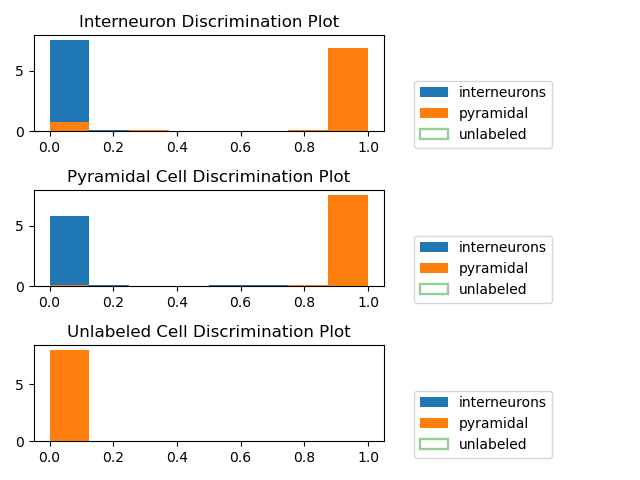
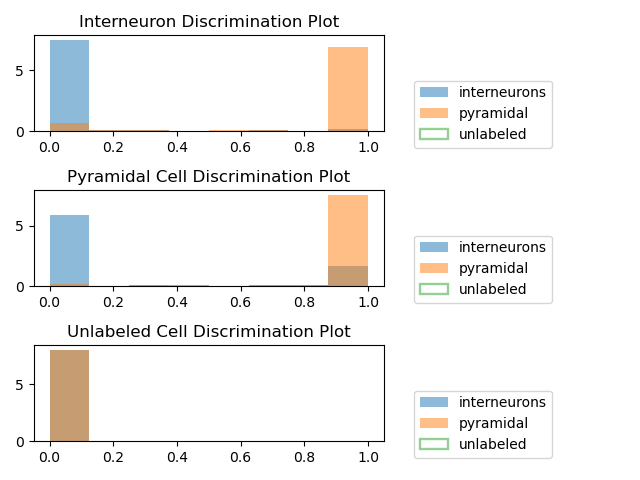
translucent figures?

diff --git a/cell.py b/cell.py
@@ -315,8 +315,8 @@ with torch.no_grad():
     unlabeled = class_0[c0_labeled2].detach().numpy().flatten()
 
 
-    ax2[0].hist(interneurons, bins=8, range=[0,1], label='interneurons', density=True)
-    ax2[0].hist(pyramidal, bins=8, range=[0,1], label='pyramidal', density=True)
+    ax2[0].hist(interneurons, bins=8, range=[0,1], label='interneurons', density=True, alpha=0.5)
+    ax2[0].hist(pyramidal, bins=8, range=[0,1], label='pyramidal', density=True, alpha=0.5)
     ax2[0].hist(unlabeled, bins=8, range=[0,1], label='unlabeled', linewidth=1.7, histtype=u'step', density=True, alpha=0.5)
     ax2[0].set_title('Interneuron Discrimination Plot')
     ax2[0].legend(bbox_to_anchor=(1.5,.6))
@@ -331,8 +331,8 @@ with torch.no_grad():
     unlabeled = class_1[c1_labeled2].detach().numpy().flatten()
 
 
-    ax2[1].hist(interneurons, bins=8, range=[0,1], label='interneurons', density=True)
-    ax2[1].hist(pyramidal, bins=8, range=[0,1], label='pyramidal', density=True)
+    ax2[1].hist(interneurons, bins=8, range=[0,1], label='interneurons', density=True, alpha=0.5)
+    ax2[1].hist(pyramidal, bins=8, range=[0,1], label='pyramidal', density=True, alpha=0.5)
     ax2[1].hist(unlabeled, bins=8, range=[0,1], label='unlabeled', linewidth=1.7, histtype=u'step', density=True, alpha=0.5)
     ax2[1].set_title('Pyramidal Cell Discrimination Plot')
     ax2[1].legend(bbox_to_anchor=(1.5,.6))
@@ -347,8 +347,8 @@ with torch.no_grad():
     unlabeled = class_2[c2_labeled2].detach().numpy().flatten()
 
 
-    ax2[2].hist(interneurons, bins=8, range=[0,1], label='interneurons', density=True)
-    ax2[2].hist(pyramidal, bins=8, range=[0,1], label='pyramidal', density=True)
+    ax2[2].hist(interneurons, bins=8, range=[0,1], label='interneurons', density=True, alpha=0.5)
+    ax2[2].hist(pyramidal, bins=8, range=[0,1], label='pyramidal', density=True, alpha=0.5)
     ax2[2].hist(unlabeled, bins=8, range=[0,1], label='unlabeled', linewidth=1.7, histtype=u'step', density=True, alpha=0.5)
     ax2[2].set_title('Unlabeled Cell Discrimination Plot')
     ax2[2].legend(bbox_to_anchor=(1.5,.6))
